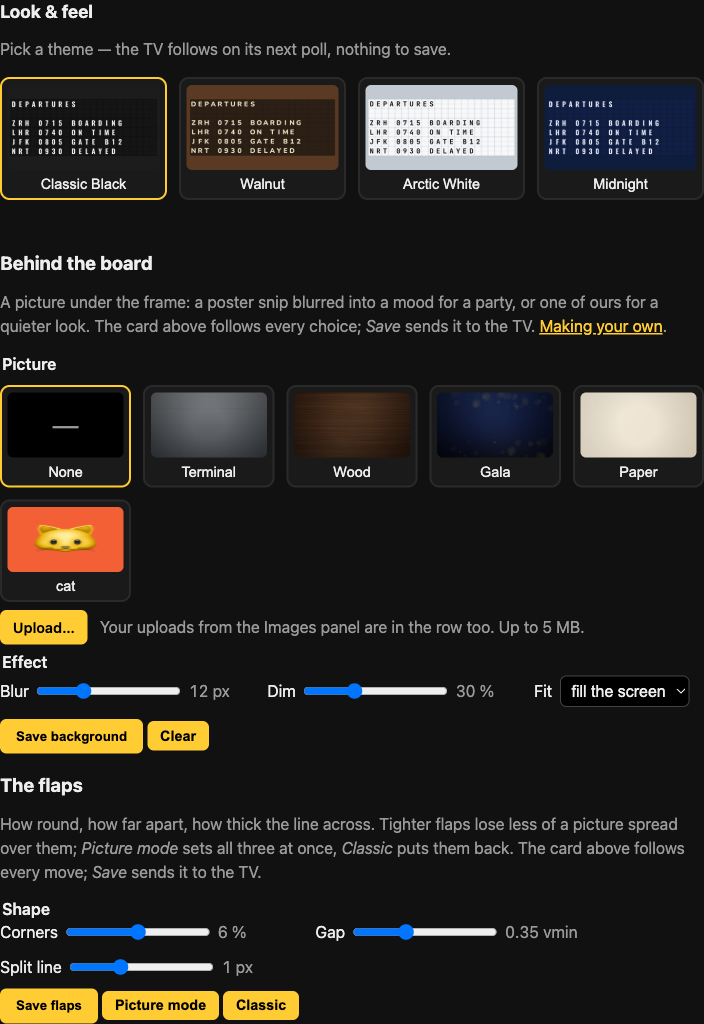
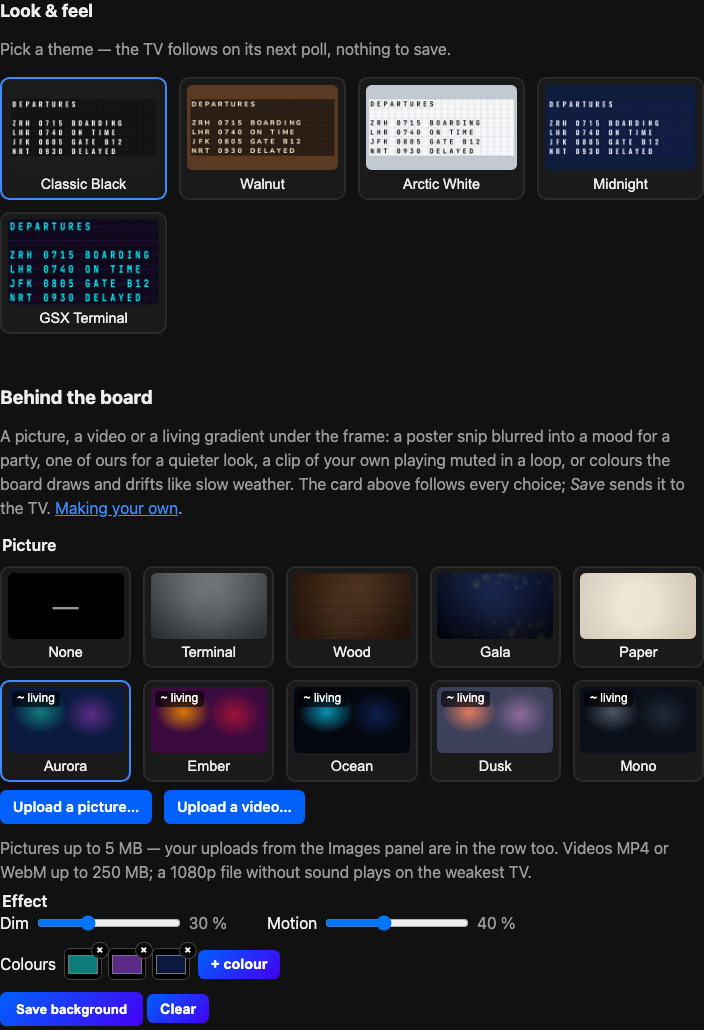
docs: living backgrounds in docs/backgrounds.md — the five presets with a still of each, Motion and Colours, reduced motion, the honest OLED paragraph, the stick note; README Look & feel sentence + board-living.gif + the picker retaken; examples.sh living; the hero renamed past the image proxy's cac

diff --git a/tests/test_docs.py b/tests/test_docs.py
@@ -194,3 +194,51 @@ def test_rendered_manifest_is_the_chart():
     assert "kind: Deployment" in rendered and "kind: PersistentVolumeClaim" in rendered
     assert "kind: Ingress" not in rendered
     assert "namespace: departureboard" in rendered
+
+
+def test_every_doc_knows_about_living_backgrounds():
+    """The living backgrounds are written down where the pictures are, with the honest OLED
+    sentence beside the claim and every key the API takes."""
+    from app.models import GRADIENT_PRESETS
+
+    doc = (ROOT / "docs" / "backgrounds.md").read_text()
+    assert "## Living backgrounds" in doc
+    for name in GRADIENT_PRESETS:
+        assert f"`gradient:{name}`" in doc, name
+        assert (ROOT / "docs" / "media" / f"living-{name}.png").is_file(), name
+    for needle in (
+        "**OLED, honestly.**",
+        "not a burn-in cure",
+        "**On a TV stick.**",
+        "lower **Motion** first",
+        "**Reduced motion.**",
+        "background_motion",
+        "background_colors",
+        "holds a video on its first frame",
+    ):
+        assert needle in doc, needle
+    for path, needles in (
+        (
+            "README.md",
+            (
+                "**living background**",
+                "kind to an OLED panel",
+                "board-living.gif",
+                "settings-look.png",
+            ),
+        ),
+        (
+            "llms.txt",
+            ("gradient:aurora|ember|ocean|dusk|mono", "background_motion", "background_colors"),
+        ),
+        (
+            "integrations/skills/departureboard/SKILL.md",
+            ('"gradient:aurora"', '"background_motion": 0–100', '"background_colors"'),
+        ),
+        ("integrations/curl/examples.sh", ("living)", "db_living", "background_motion")),
+        ("CHANGELOG.md", ("#165", "#166", "#167", "**Living backgrounds**")),
+    ):
+        text = (ROOT / path).read_text()
+        for needle in needles:
+            assert needle in text, (path, needle)
+    assert "prevents burn-in" not in (ROOT / "README.md").read_text() + doc

diff --git a/CHANGELOG.md b/CHANGELOG.md
@@ -11,7 +11,7 @@ and a container image `ghcr.io/cmldexter/departureboard:X.Y.Z`.
 
 - **A video behind the board** (#169). `background_image` takes `video:<slug>`: an MP4 or WebM uploaded with `POST /api/videos` (up to 250 MB, streamed to disk), served at `GET /videos/{slug}` with Range, playing muted in a loop under the frame; dim applies, blur starts at 0, reduced motion shows the first frame. *Behind the board* has an *Upload a video…* button and a tile per clip with a delete cross; `docs/backgrounds.md` has the one-line ffmpeg recipe for a TV-friendly file.
 - **The frame** (#170). Five display settings for the bezel around the board — `frame_color`, `frame_width` (vmin), `frame_radius` (vmin, capped at 3.4 × the width so no flap is clipped), `frame_finish` (theme · matte · chrome · neon) and `frame_glow` — each `""` = as the theme — and where it sits: `frame_fit` (fills the screen, or hugs the flaps so the backdrop shows around it), `board_scale` (25–100 % of the screen) and `board_margin` (the board's colour between bezel and flaps, which also absorbs a round corner); `frame_corners` chooses whether the corner flaps stay whole (the bezel thickens at the corners) or the bezel hides what it rounds over, at any radius. Chrome is a bezel with a rounded profile lit from above, scaling with its width, and the board hides under it — a groove and the bezel's shadow onto the panel. A fourth flap slider, **Depth** (`cell_depth` 0–100, `""` = as the theme): a lit top half, a shadow under the lip and under each flap; the classic themes stay flat until it is raised. A *The frame* sheet in Look & feel the live card follows before Save, with a *Black chrome* preset. Over a picture or video a matte frame stays translucent; chrome and neon stay solid.
-- **Living backgrounds** (#165, #166). `background_image` takes `gradient:<preset>` — a backdrop the board **draws** instead of loads: two to four colour fields drifting across the screen like slow weather, moved by the compositor alone (no blur filter on a moving layer, so a TV stick keeps up). Five presets — *aurora*, *ember*, *ocean*, *dusk*, *mono* — and the host's own colours in `background_colors` (two to four `#rrggbb`, comma-separated; `""` = the preset's); `background_motion` 0–100 sets the drift (40 by default, one way across in a minute; 0 holds a gradient still, and a video on its first frame). Dim applies; blur and fit are ignored. *Behind the board* has a **Living** row of tiles drawn by CSS, a **Motion** slider and colour wells (+ colour, ×, *Reset to preset*) the live card follows before Save; Blur and Fit step aside for a gradient. Reduced motion stills the fields.
+- **Living backgrounds** (#165, #166). `background_image` takes `gradient:<preset>` — a backdrop the board **draws** instead of loads: two to four colour fields drifting across the screen like slow weather, moved by the compositor alone (no blur filter on a moving layer, so a TV stick keeps up). Five presets — *aurora*, *ember*, *ocean*, *dusk*, *mono* — and the host's own colours in `background_colors` (two to four `#rrggbb`, comma-separated; `""` = the preset's); `background_motion` 0–100 sets the drift (40 by default, one way across in a minute; 0 holds a gradient still, and a video on its first frame). Dim applies; blur and fit are ignored. *Behind the board* has a **Living** row of tiles drawn by CSS, a **Motion** slider and colour wells (+ colour, ×, *Reset to preset*) the live card follows before Save; Blur and Fit step aside for a gradient. Reduced motion stills the fields. `docs/backgrounds.md` has the five presets with a still of each, the honest OLED paragraph and the stick note; the README's Look & feel shows the picker and a short GIF of aurora drifting (#167).
 - **GSX Terminal**, a fifth theme (#171): neon cyan mono glyphs on the void, a magenta split line, flaps with depth, a black bezel with a cyan edge.
 
 - **Kubernetes, the second way to run the board** (#126, #128). A Helm chart at `deploy/helm/departureboard` — one replica on a PVC (SQLite), a Service, an optional Ingress, a non-root read-only pod, probes on `/api/health`, the token from your own Secret or minted into `/data` — published with every release as `oci://ghcr.io/cmldexter/charts/departureboard`; `deploy/kubernetes.yaml` is the same chart rendered for `kubectl apply`. CI lints and templates it and installs it on a kind cluster with the PR's image; `docs/kubernetes.md` goes from an empty cluster to a board on a name, and the README's Quick start shows both modes.

diff --git a/docs/backgrounds.md b/docs/backgrounds.md
@@ -2,7 +2,8 @@
 
 The board can sit on a picture: a poster from your phone, blurred into a mood for a party, or
 one of the four that ship with the app for a quieter look. It can sit on a **video** of your own,
-playing muted in a loop. The flaps keep their theme; a matte frame turns translucent over the
+playing muted in a loop, or on a **living background** — colours the board draws itself and
+drifts like slow weather. The flaps keep their theme; a matte frame turns translucent over the
 picture; the board stays readable. And the **frame** itself — the bezel around the board — has
 its colour, width, corners and finish in your hands.
 
@@ -89,6 +90,46 @@ the file (a video that is on the TV comes off it as it goes).
   `DELETE /api/videos/{slug}`; the TV plays `GET /videos/{slug}`, which answers Range requests.
   `PATCH /api/settings` with `{"background_image": "video:<slug>", "background_blur": 0}` puts
   it behind the board.
+
+## Living backgrounds
+
+A backdrop the board **draws** instead of loads: two to four soft colour fields drifting across
+the screen under the frame, so the whole picture shifts hue over a minute or two. Nothing is
+downloaded and nothing is decoded — the TV's compositor slides a few pre-blurred shapes, which is
+the cheapest moving thing a browser can do.
+
+**Settings → Look & feel → Behind the board → the Living row.** Five tiles, drawn from the same
+colours; pick one and the live card drifts. Two controls appear with it and two step aside:
+
+- **Motion** (0–100) is how fast the fields drift: at 100 a field crosses the screen in 15 s, at
+  40 — the default — in about a minute, and back again. **Still** (0) holds them where they are;
+  it also holds a video on its first frame, if that is what is behind the board.
+- **Colours** are the preset's own until you touch a well. Change any, add a fourth with
+  **+ colour**, take one away with the ×, or **Reset to preset**. The last colour is the ground
+  the others float over, so keep that one dark if the flaps are to read.
+- **Dim** still applies. **Blur** and **Fit** hide — there is nothing to blur or fit.
+
+| `gradient:aurora` | `gradient:ember` | `gradient:ocean` |
+|---|---|---|
+| ![Aurora](media/living-aurora.png) teal, violet, deep blue | ![Ember](media/living-ember.png) amber, rose, plum | ![Ocean](media/living-ocean.png) cyan, navy, ink |
+| **`gradient:dusk`** | **`gradient:mono`** | |
+| ![Dusk](media/living-dusk.png) coral, mauve, slate | ![Mono](media/living-mono.png) one hue, three depths | |
+
+- **Reduced motion.** A TV or browser set to reduce motion shows the fields where they start and
+  nothing moves — a still gradient, like a picture.
+- **OLED, honestly.** Burn-in comes from static, bright content. A board shows the same flaps for
+  minutes, and a backdrop that drifts lowers the *static* part of the picture behind them, which
+  is kind to an OLED panel. The flaps themselves still sit still; the panel's own pixel shift is
+  what looks after those. A living background is not a burn-in cure, and the app does not claim
+  one.
+- **On a TV stick.** The fields cost the compositor almost nothing (a quarter of a millisecond of
+  main thread a frame on a laptop, no layout, no repaint), but a weak stick has a small GPU. If
+  the flips stutter over a gradient, lower **Motion** first, then raise **Dim**; a stick that
+  still struggles gets a picture instead.
+- **On the API:** `PATCH /api/settings` with `{"background_image": "gradient:aurora",
+  "background_motion": 40, "background_colors": ""}` — `background_colors` takes two to four
+  `#rrggbb` separated by commas, `""` means the preset's; `background_motion` 0–100. The same
+  keys travel with a saved board.
 
 ## The frame
 

diff --git a/README.md b/README.md
@@ -2,7 +2,7 @@
   <img src="docs/media/logo.png" alt="The DepartureBoard logo: nine flaps spelling DEP, O7:, LA with a green tick, mid-flip" width="160">
   <h1>DepartureBoard</h1>
   <p><b>An open-source split-flap departure board for any TV. One command, one board.</b></p>
-  <img src="docs/media/board-demo.gif" alt="The board on GSX Terminal, cyan mono flaps in a black chrome pill bezel over a drifting purple nebula, flipping from a departures list to a birthday message one column after another" width="800">
+  <img src="docs/media/board-hero.gif" alt="The board on GSX Terminal, cyan mono flaps in a black chrome pill bezel over a drifting purple nebula, flipping from a departures list to a birthday message one column after another" width="800">
   <p><sub>The Compact preset (6 × 22) on the GSX Terminal theme, a black chrome bezel that hides the corners, a clip playing behind it — all of it Look &amp; feel settings. The built-in demo: <code>http://&lt;host&gt;:8080/?demo</code></sub></p>
 </div>
 
@@ -139,9 +139,11 @@ message has left.
 
 **Look & feel.** On the **Board** tab: five theme swatches; click one and the TV follows on its
 next poll, nothing to save. Below them, *Behind the board*: a picture under the frame — one of
-the four that ship, or a poster snip uploaded right there — or a **video** of your own (MP4 or
-WebM up to 250 MB) playing muted in a loop, with blur and dim sliders the live card follows as
-they move. *Save* sends it to the TV; *Clear* takes it off. Then *The flaps*: four sliders —
+the four that ship, or a poster snip uploaded right there — a **video** of your own (MP4 or
+WebM up to 250 MB) playing muted in a loop — or a **living background**: colours the board draws
+and drifts like slow weather, five presets or your own, with a motion slider from still to brisk,
+kind to an OLED panel. Blur and dim sliders the live card follows as they move. *Save* sends it to
+the TV; *Clear* takes it off. Then *The flaps*: four sliders —
 corners (0–12 % of a cell), gap (0–1 vmin), the split line (0–3 px) and depth (a lit top half, a
 shadow under the lip and under each flap; each theme's own until you set it) — and a *Picture
 mode* button that tightens all four, so a banner across the board loses less to the grid;
@@ -149,7 +151,9 @@ mode* button that tightens all four, so a banner across the board loses less to 
 the backdrop shows around it), the bezel's colour, width, corners and a finish — matte, chrome or
 neon with a glow colour — each theme's own until you override it; *Black chrome* is one button.
 
-<img src="docs/media/settings-look.png" alt="Look & feel: four theme swatches, then the background picker with None, the built-in pictures, an upload, and the blur and dim sliders" width="800">
+<img src="docs/media/settings-look.png" alt="Look & feel: five theme swatches, then the background picker with None, the built-in pictures, the five living tiles with Aurora picked, the upload buttons, and the Dim and Motion sliders with the colour wells" width="800">
+
+<img src="docs/media/board-living.gif" alt="The board hugging its flaps over the aurora living background, the colour fields drifting behind it" width="800">
 
 <img src="docs/media/board-background.png" alt="The board on Classic Black over a blurred, dimmed party poster" width="800">
 
